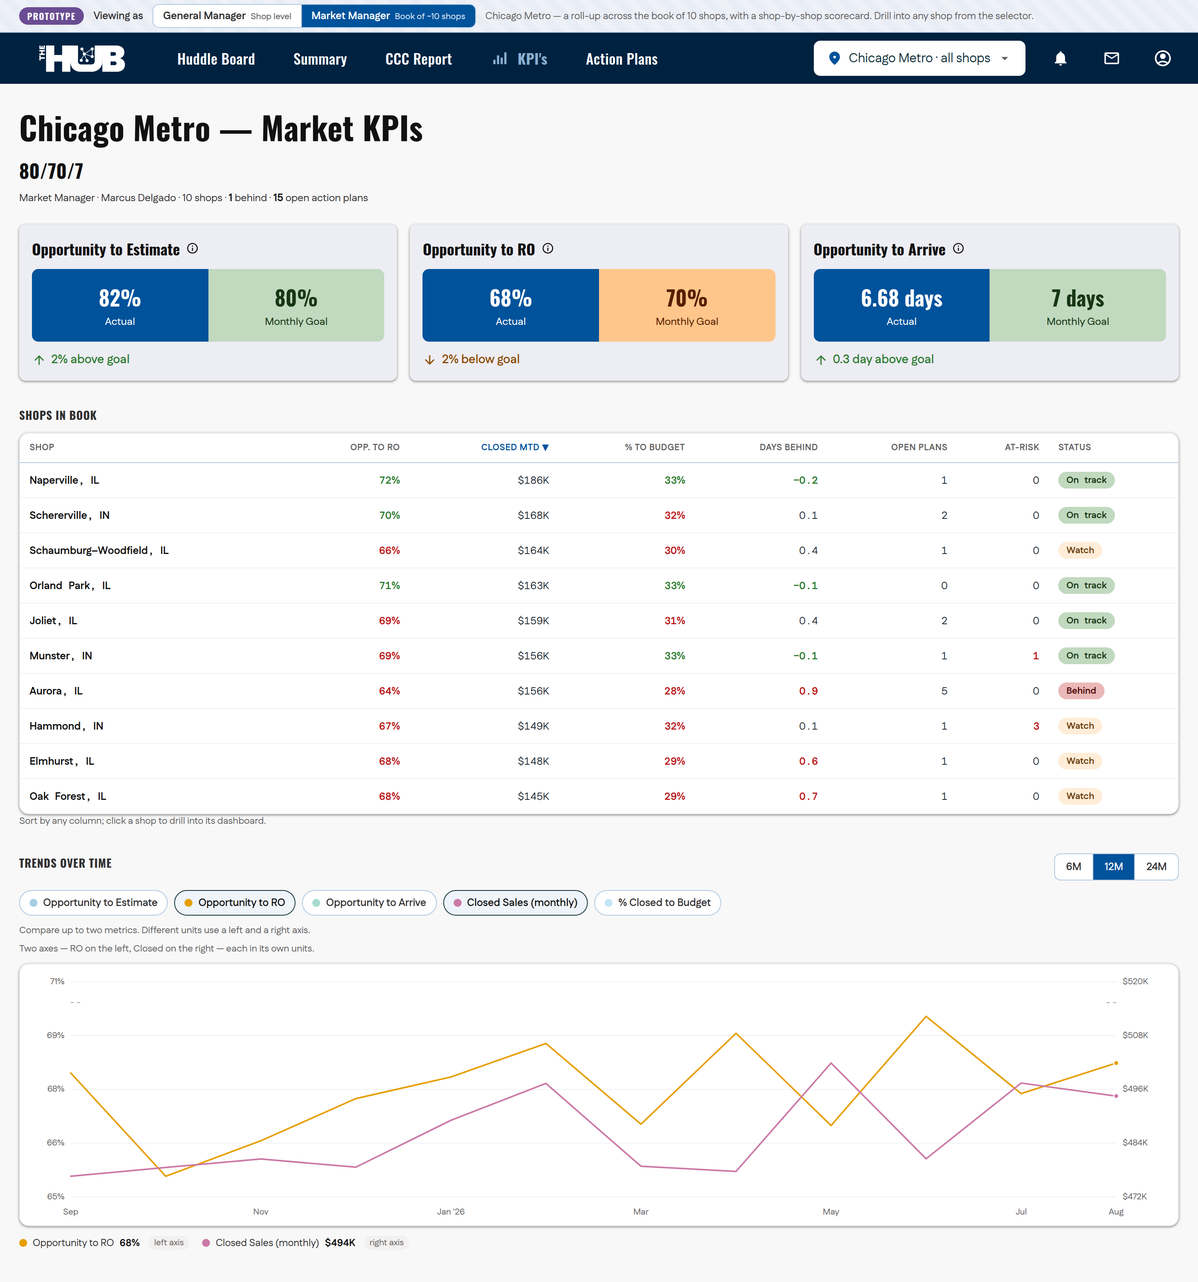
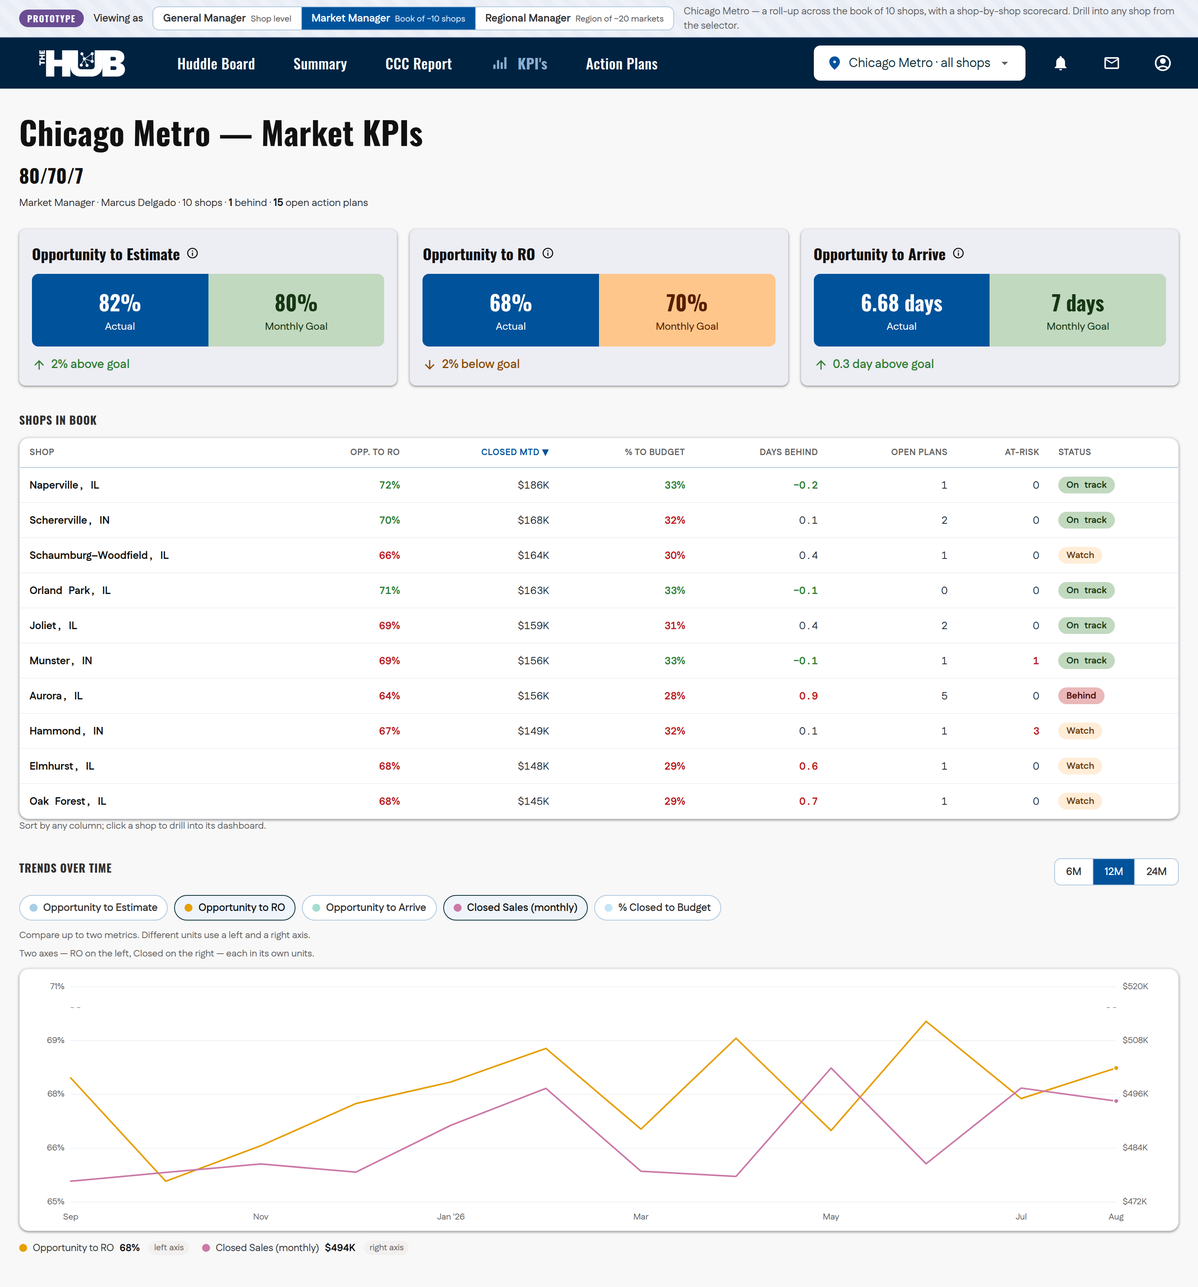
Add a Regional Manager view over logical regions of markets
Group the full 125-market taxonomy into nine logical geographic regions
(Pacific, Mountain West, South Central, Gulf South, Southeast, Florida,
Great Lakes, Heartland, Northeast) and add a third persona — Regional
Manager — that owns a region (a group of markets), one scope wider than the
Market Manager.

- data.js: add window.HUB_DATA.regions (9 regions, every market assigned
  exactly once) + defaultRegionId (Heartland, the demo region).
- app.js: deterministic per-market KPI generators (funnel, pacing, plan
  activity) seeded by market name; refactor computePacing into a reusable
  base so stores, markets, and regions share it; generalize the market
  scorecard into a shared scorecard used by both the Market (shops) and
  Region (markets) roll-ups; add renderRegionKpis (region-average funnel +
  summary + market scorecard + region trends) with drill-into-market; wire
  the 'regional' role, region location selector, and scope resolution (the
  board shows the region's active plans).
- index.html: add the Regional Manager persona button.
- README: document the regions and the Regional Manager roll-up; add a
  region roll-up screenshot; regenerate the banner previews (now 3 roles).

GM and Market Manager views are unchanged. Per-market KPIs are generated
(one market is instrumented with real shop data; the rest are modeled
roll-ups) — no real numbers are implied for name-only markets.

Claude-Session: https://claude.ai/code/session_013BSpAv4JN11AdbKWqu4hxe

diff --git a/assets/app.js b/assets/app.js
@@ -58,9 +58,12 @@
 
   var MARKET = DATA.market || { name: 'Market', manager: '', storeIds: [] };
   var ALL_STORE_IDS = (DATA.stores || []).map(function (s) { return s.id; });
+  function isMarketScope(id) { return typeof id === 'string' && id.indexOf('mkt::') === 0; }
   function resolveIds(storeId) {
     if (storeId === 'book') return MARKET.storeIds.slice();
-    if (storeId === 'all') return ALL_STORE_IDS.slice();
+    // Region-level scopes (Regional Manager) have no per-market stores in this
+    // prototype — the board shows the region's instrumented action plans (all stores).
+    if (storeId === 'all' || storeId === 'region' || isMarketScope(storeId)) return ALL_STORE_IDS.slice();
     return [storeId];
   }
   function scopeIds() { return resolveIds(state.store); }
@@ -434,7 +437,12 @@
     var counts = {};
     (DATA.plans || []).forEach(function (p) { counts[p.storeId] = (counts[p.storeId] || 0) + 1; });
     var items;
-    if (state.role === 'market') {
+    if (state.role === 'regional') {
+      var region = currentRegion();
+      var regionOpen = region.markets.reduce(function (a, nm) { return a + marketPlanActivity(nm).open; }, 0);
+      items = [{ id: 'region', name: 'All my markets', count: regionOpen, sub: region.markets.length + ' markets' }]
+        .concat(region.markets.map(function (nm) { return { id: 'mkt::' + nm, name: nm, count: marketPlanActivity(nm).open }; }));
+    } else if (state.role === 'market') {
       var bookPlans = (DATA.plans || []).filter(function (p) { return MARKET.storeIds.indexOf(p.storeId) >= 0; }).length;
       items = [{ id: 'book', name: 'All my shops', count: bookPlans, sub: MARKET.storeIds.length + ' shops' }]
         .concat(MARKET.storeIds.map(function (id) { var s = STORE_BY_ID[id]; return { id: id, name: s ? s.name : id, count: counts[id] || 0 }; }));
@@ -449,6 +457,8 @@
   function setStore(id) {
     state.store = id;
     var label = id === 'book' ? MARKET.name + ' · all shops'
+      : id === 'region' ? currentRegion().name + ' · all markets'
+      : isMarketScope(id) ? id.slice(5)
       : id === 'all' ? 'All stores'
       : (STORE_BY_ID[id] ? STORE_BY_ID[id].name : id);
     document.getElementById('shopName').textContent = label;
@@ -479,7 +489,34 @@
   var PACING_BY_STORE = DATA.pacingByStore || {};
   var MTD = DATA.mtd || { day: 10, daysInMonth: 31 };
 
+  /* ---- Regions (Regional Manager scope) + deterministic per-market KPIs ----
+     Markets in the region list have no stores in this prototype, so their
+     funnel / pacing / plan activity are generated deterministically from the
+     market name (same seeded approach as the sparklines). */
+  var REGIONS = DATA.regions || [];
+  var REGION_BY_ID = {}; REGIONS.forEach(function (r) { REGION_BY_ID[r.id] = r; });
+  function currentRegion() { return REGION_BY_ID[DATA.defaultRegionId] || REGIONS[0] || { id: 'rg', name: 'Region', manager: '', markets: [] }; }
+  function mrng(name, salt) { return mulberry(hashStr('mkt:' + name + ':' + salt)); }
+  function marketFunnelObj(name) { var r = mrng(name, 'fun'); return { estimate: 78 + r() * 11, ro: 61 + r() * 15, arrive: 5.8 + r() * 2.2 }; }
+  function marketPacingObj(name) { var r = mrng(name, 'pac'); return { budget: 3800000 + Math.floor(r() * 4600000), closedPace: 0.80 + r() * 0.30, forecastFactor: 0.88 + r() * 0.20 }; }
+  function marketPlanActivity(name) {
+    var r = mrng(name, 'plan');
+    var open = 1 + Math.floor(r() * 7);
+    var blocked = Math.floor(r() * Math.min(3, open));
+    var inprog = Math.min(open - blocked, Math.floor(r() * (open + 1)));
+    var atRisk = Math.floor(r() * 4);
+    return { open: open, blocked: blocked, inprog: Math.max(0, inprog), atRisk: atRisk };
+  }
+  function regionFunnelAvg(region) {
+    var ids = region.markets, n = ids.length || 1, acc = {};
+    ids.forEach(function (nm) { var f = marketFunnelObj(nm); KPI_FUNNEL.forEach(function (m) { acc[m.key] = (acc[m.key] || 0) + f[m.key]; }); });
+    var out = {}; KPI_FUNNEL.forEach(function (m) { out[m.key] = acc[m.key] / n; });
+    return out;
+  }
+
   function kpiFunnelValuesFor(storeId) {
+    if (isMarketScope(storeId)) return marketFunnelObj(storeId.slice(5));
+    if (storeId === 'region') return regionFunnelAvg(currentRegion());
     var ids = resolveIds(storeId).filter(function (id) { return KPIS_BY_STORE[id]; });
     if (ids.length === 1) return KPIS_BY_STORE[ids[0]];
     var acc = {}, n = ids.length;
@@ -555,9 +592,7 @@
     ids.forEach(function (id) { b += PACING_BY_STORE[id].budget; cp += PACING_BY_STORE[id].closedPace; ff += PACING_BY_STORE[id].forecastFactor; });
     return { budget: b / n, closedPace: cp / n, forecastFactor: ff / n };
   }
-  function computePacing(storeId) {
-    var ids = resolveIds(storeId);
-    var base = (ids.length === 1 && PACING_BY_STORE[ids[0]]) ? PACING_BY_STORE[ids[0]] : avgPacingOver(ids);
+  function pacingFromBase(base, seedKey) {
     var frac = MTD.day / MTD.daysInMonth;
     var budget = base.budget;
     var mtdTarget = budget * frac;
@@ -568,14 +603,27 @@
     var pctClosedToBudget = closedMTD / budget * 100;
     var pacePct = frac * 100;
     var daysBehind = (mtdTarget - closedMTD) / (budget / 22);
-    var dr = mulberry(hashStr(storeId + ':dnc'));
+    var dr = mulberry(hashStr(seedKey + ':dnc'));
     var dncCount = 3 + Math.floor(dr() * 6);
     var dncValue = dncCount * (12000 + dr() * 9000);
     var weeklyTarget = budget / (MTD.daysInMonth / 7);
-    var weeks = weekSeries(storeId, weeklyTarget);
+    var weeks = weekSeries(seedKey, weeklyTarget);
     return { budget: budget, mtdTarget: mtdTarget, closedMTD: closedMTD, forecast: forecast, fillTarget: fillTarget,
       closedVariance: closedVariance, pctClosedToBudget: pctClosedToBudget, pacePct: pacePct, daysBehind: daysBehind,
       monthlyClosed: budget * base.closedPace, dncCount: dncCount, dncValue: dncValue, weeks: weeks };
+  }
+  function computeMarketPacing(name) { return pacingFromBase(marketPacingObj(name), 'mkt::' + name); }
+  function computeRegionPacing(region) {
+    var ids = region.markets, n = ids.length || 1, b = 0, cp = 0, ff = 0;
+    ids.forEach(function (nm) { var mp = marketPacingObj(nm); b += mp.budget; cp += mp.closedPace; ff += mp.forecastFactor; });
+    return pacingFromBase({ budget: b, closedPace: cp / n, forecastFactor: ff / n }, 'region:' + region.id);
+  }
+  function computePacing(storeId) {
+    if (isMarketScope(storeId)) return computeMarketPacing(storeId.slice(5));
+    if (storeId === 'region') return computeRegionPacing(currentRegion());
+    var ids = resolveIds(storeId);
+    var base = (ids.length === 1 && PACING_BY_STORE[ids[0]]) ? PACING_BY_STORE[ids[0]] : avgPacingOver(ids);
+    return pacingFromBase(base, storeId);
   }
   function statusOf(actual, target) {
     var r = actual / target;
@@ -681,9 +729,11 @@
     if (!root) return;
     var fvals = kpiFunnelValuesFor(storeId);
     var p = computePacing(storeId);
-    var name = storeId === 'all' ? 'All stores' : (STORE_BY_ID[storeId] ? shortStore(STORE_BY_ID[storeId].name) : 'All stores');
+    var isMkt = isMarketScope(storeId);
+    var name = isMkt ? storeId.slice(5) : (storeId === 'all' ? 'All stores' : (STORE_BY_ID[storeId] ? shortStore(STORE_BY_ID[storeId].name) : 'All stores'));
+    var title = isMkt ? name + ' — Market KPIs' : possessive(name) + ' KPIs';
     var html = '';
-    html += '<div class="kpi-head"><p class="kpi-title" data-testid="kpi-page-title">' + esc(possessive(name) + ' KPIs') + '</p>' +
+    html += '<div class="kpi-head"><p class="kpi-title" data-testid="kpi-page-title">' + esc(title) + '</p>' +
       '<p class="kpi-sub" data-testid="kpi-page-subtitle">80/70/7</p></div>';
     html += '<div class="kpi-funnel" data-testid="capture-rate-metrics">' +
       KPI_FUNNEL.map(function (m) { return funnelBoxHTML(m, fvals[m.key]); }).join('') + '</div>';
@@ -955,18 +1005,30 @@
     return { id: id, name: s.name, ro: ro, closed: pc.closedMTD, pctBudget: pctBudget, pace: pace, daysBehind: daysBehind, openPlans: openPlans, atRisk: atRisk, risk: risk, status: status };
   }
 
-  function marketRowsSorted() {
-    var rows = MARKET.storeIds.map(shopRow), k = marketSort.key, dir = marketSort.dir === 'asc' ? 1 : -1;
-    rows.sort(function (a, b) {
+  /* a market row for the region scorecard — generated, no underlying stores */
+  function marketRow(name) {
+    var f = marketFunnelObj(name), pc = computeMarketPacing(name), act = marketPlanActivity(name);
+    var pctBudget = pc.pctClosedToBudget, pace = pc.pacePct, daysBehind = pc.daysBehind, ro = f.ro;
+    var risk = 0;
+    if (daysBehind > 1.5) risk += 2; else if (daysBehind > 0.5) risk += 1;
+    if (pctBudget < pace - 5) risk += 2; else if (pctBudget < pace - 2) risk += 1;
+    if (ro < 68) risk += 1;
+    if (act.atRisk >= 3) risk += 1;
+    var status = risk >= 3 ? { w: 'Behind', c: 'serious' } : risk >= 1 ? { w: 'Watch', c: 'warn' } : { w: 'On track', c: 'good' };
+    return { id: 'mkt::' + name, name: name, ro: ro, closed: pc.closedMTD, pctBudget: pctBudget, pace: pace, daysBehind: daysBehind, openPlans: act.open, atRisk: act.atRisk, risk: risk, status: status };
+  }
+
+  function sortScorecard(rows) {
+    var k = marketSort.key, dir = marketSort.dir === 'asc' ? 1 : -1;
+    return rows.slice().sort(function (a, b) {
       var va = k === 'status' ? a.risk : a[k], vb = k === 'status' ? b.risk : b[k];
       if (va < vb) return -1 * dir; if (va > vb) return 1 * dir; return 0;
     });
-    return rows;
   }
-
-  function marketTableHTML() {
+  /* shared scorecard used by the Market (shops) and Region (markets) roll-ups */
+  function scorecardHTML(rows, firstLabel) {
     var cols = [
-      { k: 'name', label: 'Shop', num: false },
+      { k: 'name', label: firstLabel, num: false },
       { k: 'ro', label: 'Opp. to RO', num: true },
       { k: 'closed', label: 'Closed MTD', num: true },
       { k: 'pctBudget', label: '% to Budget', num: true },
@@ -979,12 +1041,12 @@
       var arrow = marketSort.key === c.k ? (marketSort.dir === 'asc' ? ' ▲' : ' ▼') : '';
       return '<th class="' + (c.num ? 'num' : '') + '" data-sort="' + c.k + '" tabindex="0">' + esc(c.label) + arrow + '</th>';
     }).join('') + '</tr>';
-    var rows = marketRowsSorted().map(function (r) {
+    var body = sortScorecard(rows).map(function (r) {
       var roCls = r.ro >= 70 ? 'ok' : 'bad';
       var budCls = r.pctBudget >= r.pace ? 'ok' : 'bad';
       var dbCls = r.daysBehind > 0.5 ? 'bad' : (r.daysBehind < -0.05 ? 'ok' : '');
       var arCls = r.atRisk > 0 ? 'bad' : '';
-      return '<tr data-store="' + r.id + '" tabindex="0" role="button" aria-label="Open ' + esc(r.name) + ' dashboard">' +
+      return '<tr data-store="' + esc(r.id) + '" tabindex="0" role="button" aria-label="Open ' + esc(r.name) + ' dashboard">' +
         '<td class="shop">' + esc(r.name) + '</td>' +
         '<td class="num ' + roCls + '">' + Math.round(r.ro) + '%</td>' +
         '<td class="num">' + esc(money(r.closed)) + '</td>' +
@@ -995,10 +1057,12 @@
         '<td><span class="mk-status ' + r.status.c + '">' + esc(r.status.w) + '</span></td>' +
       '</tr>';
     }).join('');
-    return '<table class="mk-table"><thead>' + thead + '</thead><tbody>' + rows + '</tbody></table>';
+    return '<table class="mk-table"><thead>' + thead + '</thead><tbody>' + body + '</tbody></table>';
   }
+  function marketTableHTML() { return scorecardHTML(MARKET.storeIds.map(shopRow), 'Shop'); }
+  function regionTableHTML(region) { return scorecardHTML(region.markets.map(marketRow), 'Market'); }
 
-  function wireMarketTable() {
+  function wireScorecard(rebuild) {
     var wrap = document.getElementById('mkTableWrap'); if (!wrap) return;
     wrap.addEventListener('click', function (e) {
       var th = e.target.closest('th[data-sort]');
@@ -1006,7 +1070,7 @@
         var k = th.getAttribute('data-sort');
         if (marketSort.key === k) marketSort.dir = marketSort.dir === 'asc' ? 'desc' : 'asc';
         else { marketSort.key = k; marketSort.dir = (k === 'name') ? 'asc' : 'desc'; }
-        wrap.innerHTML = marketTableHTML();
+        wrap.innerHTML = rebuild();
         return;
       }
       var tr = e.target.closest('tr[data-store]');
@@ -1036,12 +1100,36 @@
       '<div class="trend-hint">Sort by any column; click a shop to drill into its dashboard.</div></div>';
     html += trendsSectionHTML();
     root.innerHTML = html;
-    wireMarketTable();
+    wireScorecard(marketTableHTML);
     drawTrends('book');
     wireTrends('book');
   }
 
+  function renderRegionKpis() {
+    var root = document.getElementById('kpiRoot'); if (!root) return;
+    var region = currentRegion();
+    var fvals = regionFunnelAvg(region);
+    var rows = region.markets.map(marketRow);
+    var behindCount = rows.filter(function (r) { return r.status.w === 'Behind'; }).length;
+    var openPlans = rows.reduce(function (a, r) { return a + r.openPlans; }, 0);
+    var html = '';
+    html += '<div class="kpi-head"><p class="kpi-title" data-testid="kpi-page-title">' + esc(region.name + ' — Region KPIs') + '</p>' +
+      '<p class="kpi-sub" data-testid="kpi-page-subtitle">80/70/7</p>' +
+      '<p class="mk-lead">Regional Manager · ' + esc(region.manager) + ' · ' + region.markets.length + ' markets · ' +
+      '<b>' + behindCount + '</b> behind · <b>' + openPlans + '</b> open action plans</p></div>';
+    html += '<div class="kpi-funnel">' + KPI_FUNNEL.map(function (m) { return funnelBoxHTML(m, fvals[m.key]); }).join('') + '</div>';
+    html += '<div class="kpi-section"><div class="kpi-section-title">Markets in region</div>' +
+      '<div class="mk-table-wrap" id="mkTableWrap">' + regionTableHTML(region) + '</div>' +
+      '<div class="trend-hint">Sort by any column; click a market to drill into its dashboard.</div></div>';
+    html += trendsSectionHTML();
+    root.innerHTML = html;
+    wireScorecard(function () { return regionTableHTML(region); });
+    drawTrends('region');
+    wireTrends('region');
+  }
+
   function renderKpiTab(storeId) {
+    if (state.role === 'regional') { if (storeId === 'region') renderRegionKpis(); else renderKpis(storeId); return; }
     if (state.role === 'market' && storeId === 'book') renderMarketKpis();
     else renderKpis(storeId);
   }
@@ -1053,10 +1141,15 @@
       b.classList.toggle('on', on); b.setAttribute('aria-pressed', on);
     });
     var note = document.getElementById('protoNote');
-    if (note) note.textContent = role === 'market'
-      ? MARKET.name + ' — a roll-up across the book of ' + MARKET.storeIds.length + ' shops, with a shop-by-shop scorecard. Drill into any shop from the selector.'
-      : 'One shop’s Action Plans and KPIs. Use the location selector to choose the shop.';
-    state.store = role === 'market' ? 'book' : (DATA.defaultStoreId || (DATA.stores[0] && DATA.stores[0].id));
+    if (note) {
+      var rg = currentRegion();
+      note.textContent = role === 'market'
+        ? MARKET.name + ' — a roll-up across the book of ' + MARKET.storeIds.length + ' shops, with a shop-by-shop scorecard. Drill into any shop from the selector.'
+        : role === 'regional'
+        ? rg.name + ' region — a roll-up across ' + rg.markets.length + ' markets, with a market-by-market scorecard. Drill into any market from the selector.'
+        : 'One shop’s Action Plans and KPIs. Use the location selector to choose the shop.';
+    }
+    state.store = role === 'market' ? 'book' : role === 'regional' ? 'region' : (DATA.defaultStoreId || (DATA.stores[0] && DATA.stores[0].id));
     setStore(state.store);
   }
 

diff --git a/assets/data.js b/assets/data.js
@@ -757,3 +757,73 @@ window.HUB_DATA.market = {
   id: "m-chi", name: "Chicago Metro", manager: "Marcus Delgado",
   storeIds: ["s1", "s2", "s3", "s4", "s5", "s6", "s7", "s8", "s10", "s14"]
 };
+
+/* ============================================================
+   Regions — the Regional Manager scope. Every market below is
+   grouped into one of nine logical geographic regions. Market
+   names are the real Boyd/Gerber market taxonomy; per-market
+   KPIs are generated deterministically at render time (see the
+   market* generators in app.js). The Heartland region is the
+   demo default (Chicago-area markets, matching the instrumented
+   stores). Manager names are synthetic.
+   ============================================================ */
+window.HUB_DATA.defaultRegionId = "rg-heartland";
+window.HUB_DATA.regions = [
+  { id: "rg-pacific", name: "Pacific", manager: "Dana Whitfield", markets: [
+    "CA Central Valley Market", "CA North Valley Market", "CA-LA Market",
+    "Inland Empire I Market", "Inland Empire II Market", "Sacramento Market",
+    "Seattle Central", "Seattle East", "Seattle North", "Seattle South",
+    "Eastern Washington", "Oregon Market", "Hawaii Market"
+  ] },
+  { id: "rg-mountain", name: "Mountain West", manager: "Cal Jorgensen", markets: [
+    "Arizona East", "Arizona South", "Arizona West",
+    "Colorado North", "Colorado South", "Colorado Western Slope",
+    "Utah Market", "North Vegas", "South Vegas"
+  ] },
+  { id: "rg-southcentral", name: "South Central", manager: "Marisol Vega", markets: [
+    "Texas Austin", "Texas Central", "Texas Dallas East", "Texas Dallas North",
+    "Texas Dallas South", "Texas Dallas West", "Texas Houston North",
+    "Texas Houston South", "Texas South", "Texas West",
+    "Oklahoma City East", "Oklahoma City West", "Oklahoma South",
+    "Oklahoma Tulsa North", "Oklahoma Tulsa South"
+  ] },
+  { id: "rg-gulfsouth", name: "Gulf South", manager: "Terrence Boudreaux", markets: [
+    "AL Central East", "AL Central West", "AL East", "AL Huntsville", "AL South",
+    "MS and AL Gulf Coast", "MS North",
+    "LA Central", "LA East", "LA West", "Louisiana North",
+    "Arkansas Central", "Arkansas North & Missouri South"
+  ] },
+  { id: "rg-southeast", name: "Southeast", manager: "Janelle Carter", markets: [
+    "GA Atlanta East", "GA Atlanta North", "GA Atlanta South", "GA Central", "GA East",
+    "North Carolina Central", "North Carolina Charlotte Metro", "North Carolina East",
+    "North Carolina North", "North Carolina West",
+    "SC South", "South Carolina East", "South Carolina North", "South Carolina West",
+    "Tennessee East", "Tennessee North", "Tennessee South"
+  ] },
+  { id: "rg-florida", name: "Florida", manager: "Rafael Ortiz", markets: [
+    "FL Panhandle", "Jacksonville North", "Jacksonville West", "Northwest Florida",
+    "Ocala Market", "Orlando North", "Orlando South", "Southwest Florida",
+    "Tampa North", "Tampa South", "West Florida"
+  ] },
+  { id: "rg-greatlakes", name: "Great Lakes", manager: "Bernadette Kowalski", markets: [
+    "MI Ann Arbor", "MI Detroit East", "MI Detroit North", "MI Detroit South",
+    "MI Grand Rapids", "MI Lansing", "MI Northwest", "MI Southwest",
+    "Ohio Central", "Ohio Cincinnati North", "Ohio Cincinnati South",
+    "Ohio Northeast", "Ohio Northwest",
+    "IN Central City", "IN North Central", "IN Northeast", "IN Northwest"
+  ] },
+  { id: "rg-heartland", name: "Heartland", manager: "Curtis Lindgren", markets: [
+    "Central East", "Central Illinois", "Central Suburban", "City Market",
+    "North Suburban", "South Suburban", "West Suburban",
+    "Central Wisconsin", "East Wisconsin", "West Wisconsin",
+    "NE Wisconsin & Upper Michigan", "NW Wisconsin & Minnesota", "MN West Market",
+    "Iowa market", "Missouri & Kansas City", "Missouri St Louis",
+    "Kansas Wichita", "Nebraska Omaha", "Kentucky East", "Kentucky West"
+  ] },
+  { id: "rg-northeast", name: "Northeast", manager: "Sophia Almeida", markets: [
+    "Maryland East", "Maryland West",
+    "New York Albany", "New York Central", "New York Syracuse", "New York West",
+    "Pennsylvania Northeast", "Pennsylvania West",
+    "Virginia North", "Virginia South"
+  ] }
+];

diff --git a/index.html b/index.html
@@ -20,6 +20,7 @@
     <div class="proto-roles" id="protoRoles" role="group" aria-label="Role">
       <button type="button" class="proto-role on" data-role="gm" aria-pressed="true">General Manager<small>Shop level</small></button>
       <button type="button" class="proto-role" data-role="market" aria-pressed="false">Market Manager<small>Book of ~10 shops</small></button>
+      <button type="button" class="proto-role" data-role="regional" aria-pressed="false">Regional Manager<small>Region of ~20 markets</small></button>
     </div>
     <span class="proto-note" id="protoNote"></span>
   </div>

diff --git a/README.md b/README.md
@@ -11,7 +11,8 @@ dashboard — switched from the nav and both driven by the shared store selector
 
 ## Prototype view switcher (roles)
 
-A **Prototype** banner across the top lets you see the same tabs through two roles:
+A **Prototype** banner across the top lets you see the same tabs through three roles,
+each a wider scope than the last (shop → market → region):
 
 - **General Manager (shop level)** — the default. One shop at a time; the location
   selector picks the shop, and both tabs show just that store.
@@ -23,6 +24,20 @@ A **Prototype** banner across the top lets you see the same tabs through two rol
   Closed MTD, % to Budget, Days Behind, open plans, at-risk tasks, and a
   Behind / Watch / On-track status) — click any shop to drill into its dashboard.
   The trends chart rolls up to the book.
+- **Regional Manager (region of ~20 markets)** — scope becomes the manager's
+  **region**: one of nine logical geographic regions that group the full market
+  taxonomy (125 markets → Pacific, Mountain West, South Central, Gulf South,
+  Southeast, Florida, Great Lakes, Heartland, Northeast). The demo defaults to the
+  20-market **Heartland** region. The location selector switches to **All my
+  markets** + the region's markets, and the **KPIs tab becomes a region roll-up**:
+  a region-average funnel, a summary (markets behind / open action plans), and a
+  sortable **market scorecard** (same columns, one row per market) — click any
+  market to drill into its dashboard. Per-market KPIs are generated deterministically
+  from the market name (this prototype instruments one market with real shop data;
+  the rest are modeled roll-ups). The Action Plans board shows the region's active
+  plans.
+
+![Regional Manager region roll-up](assets/preview-region.png)
 
 ![Market Manager roll-up](assets/preview-market.png)
 
@@ -132,7 +147,7 @@ value, per store.
 | `assets/hub-shell.css` | The Hub's actual shipped layout/navigation CSS, imported verbatim. |
 | `assets/styles.css` | The Hub design tokens + all Action-Plans component styles. |
 | `assets/thehub.svg` | The official "THE HUB" logo. |
-| `assets/data.js` | The mock dataset — stores, plans, tasks, cross-links, and per-store KPI snapshots (`window.HUB_DATA`). |
+| `assets/data.js` | The mock dataset — stores, plans, tasks, cross-links, per-store KPI snapshots, the Market Manager's book, and the nine **regions** grouping all 125 markets (`window.HUB_DATA`). |
 | `assets/app.js` | Tab switching, board state, drag & drop, store switching, filters, the task modal, and the KPI dashboard (funnel boxes, tiles, sparklines). |
 
 ## How this maps onto the real Hub
